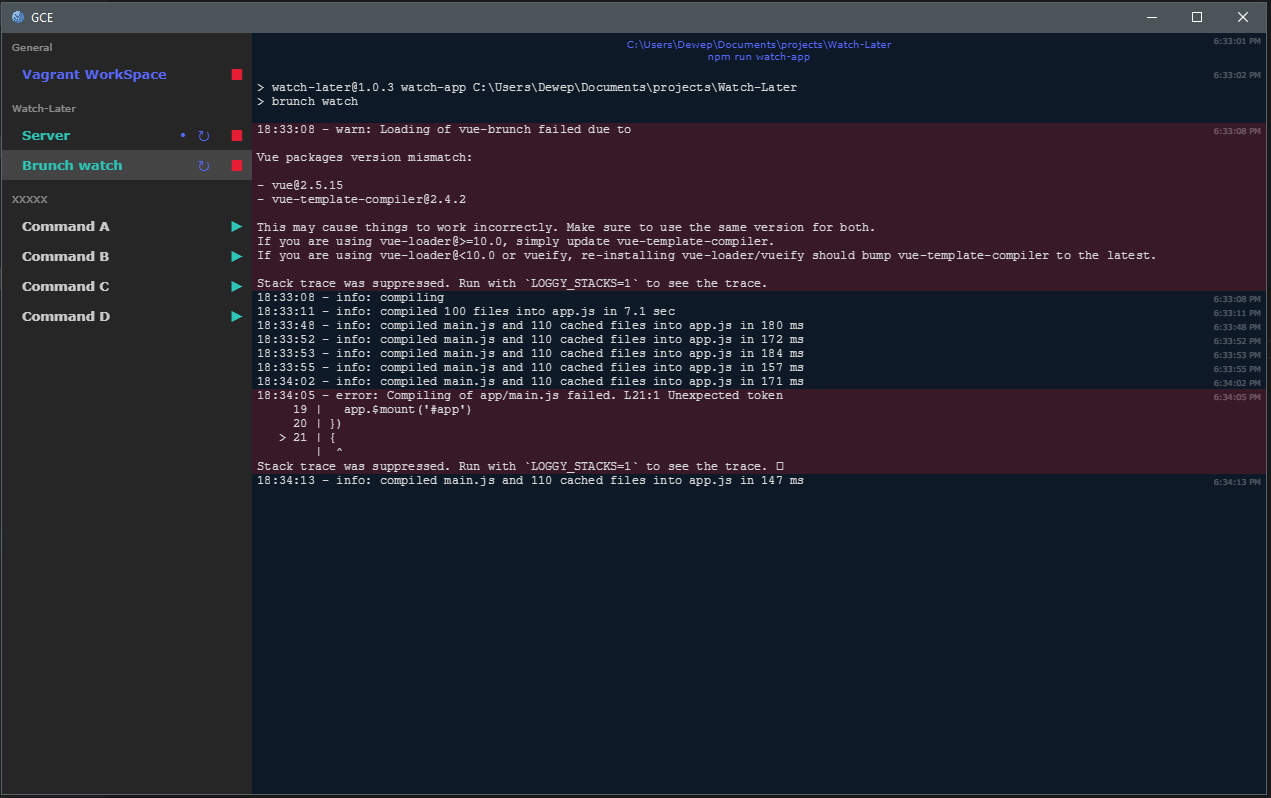
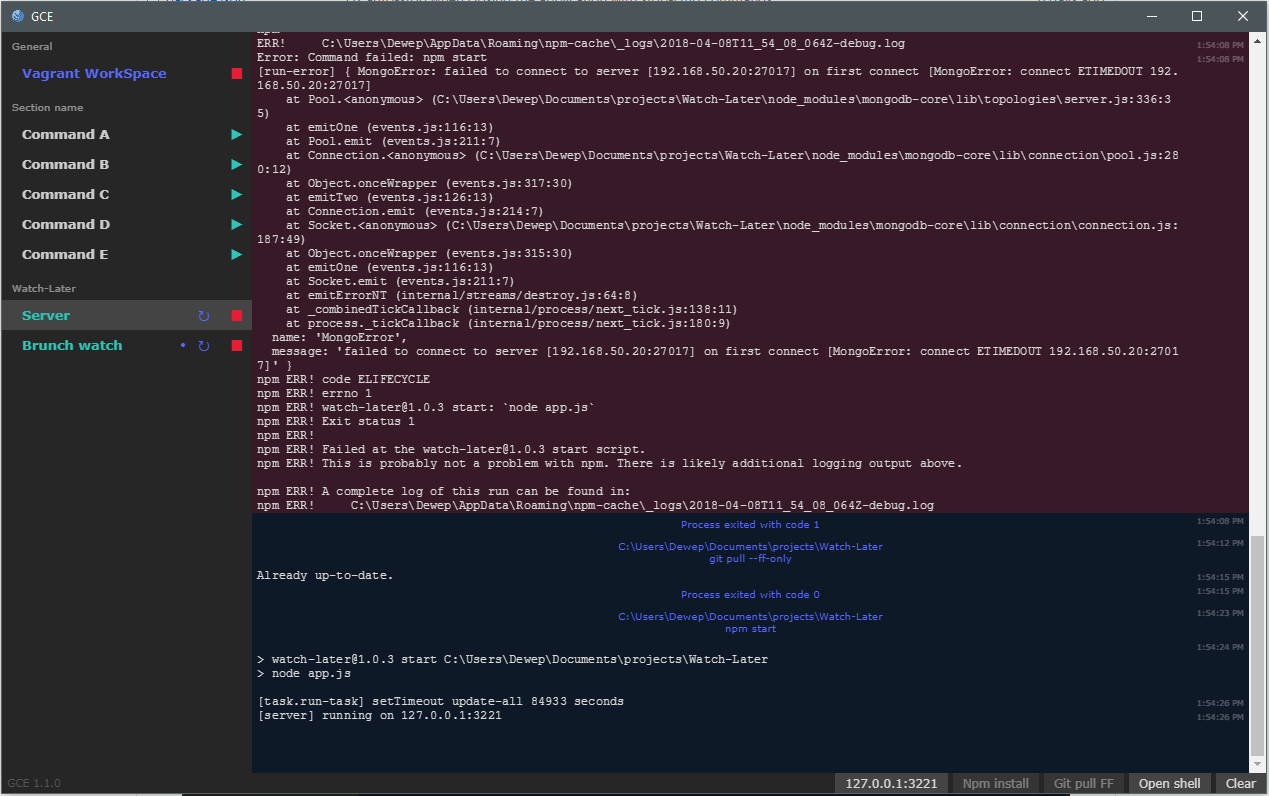
Update readme + preview.png

diff --git a/README.md b/README.md
@@ -16,10 +16,23 @@ The list of commands must be in your "home" folder (`C:/Users/XXXX/` or `/home/X
 
 root: C:\Users\Dewep\Documents\projects
 
+shell: [C:\Program Files\Git\git-bash.exe, --cd=%dir%]
+
+extra:
+  git:
+    name: Git pull FF
+    cmd: git pull --ff-only
+  npm:
+    name: Npm install
+    cmd: npm install
+
+default-extra: [git, npm]
+
 commands:
   - name: Vagrant WorkSpace
     cmd: vagrant up
     stop-cmd: vagrant halt
+    extra: []
 
   - name: Watch-Later/Server
     path: Watch-Later
@@ -33,11 +46,15 @@ __commands[]__:
 
 - `name`: Name of the command. Possibility to group the command in sections, by adding the section name followed by a `/` before the name (`Section name/Command name`).
 - `path` _(optional)_: Directory path to run the command. This is append to the `root` configuration path.
-- `cmd`: Command to exec
+- `cmd`: Command to exec.
 - `stop-cmd` _(optional)_: If defined, allows to have a command to execute when stopping the service. This is useful for commands such as Vagrant: `cmd` is used to start the VM (`vagrant up`), `stop-cmd` to stop it (`vagrant halt`).
+- `extra` _(optional, default to `default-extra`)_: Array of extra commands (present in the status-bar).
 
-## Todo
+__extra[]__:
 
-- Ctrl+L to clear output
-- Ctrl+C to stop
-- Build release for linux
+- `name`: Name of the extra command.
+- `cmd`: Command to exec.
+
+__shell[]__:
+
+- Arguments to spawn a new shell (`Open shell` in the status-bar). `%dir%` is replaced with the directory path of the "command".
